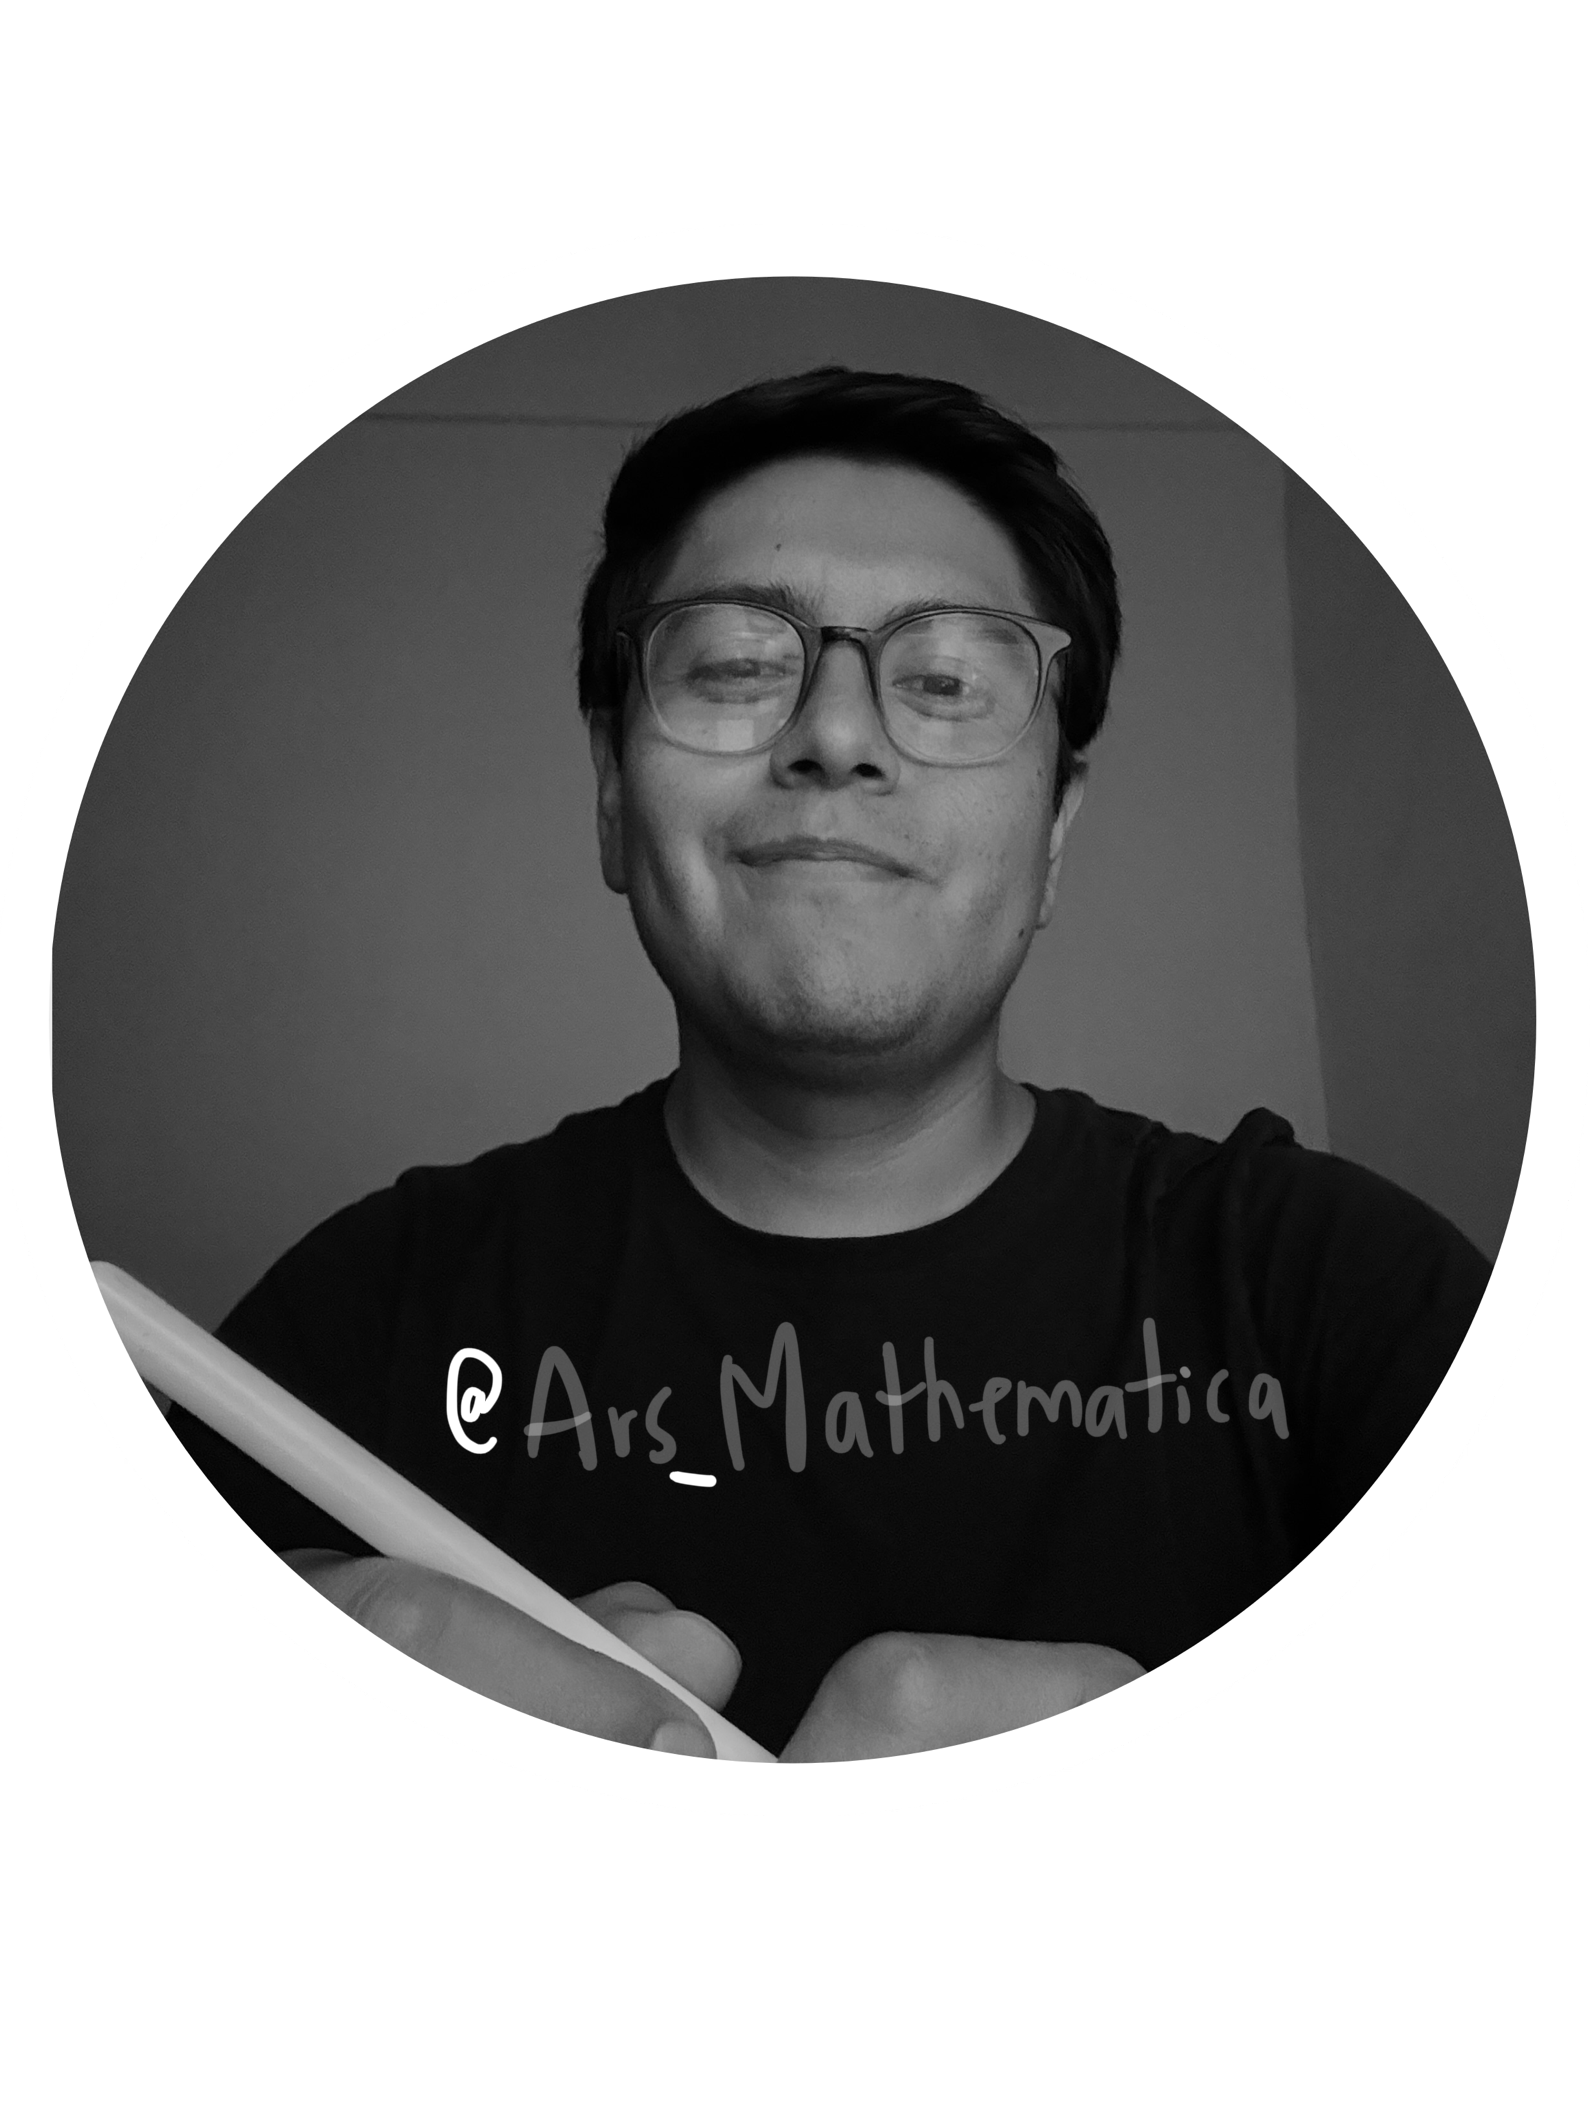
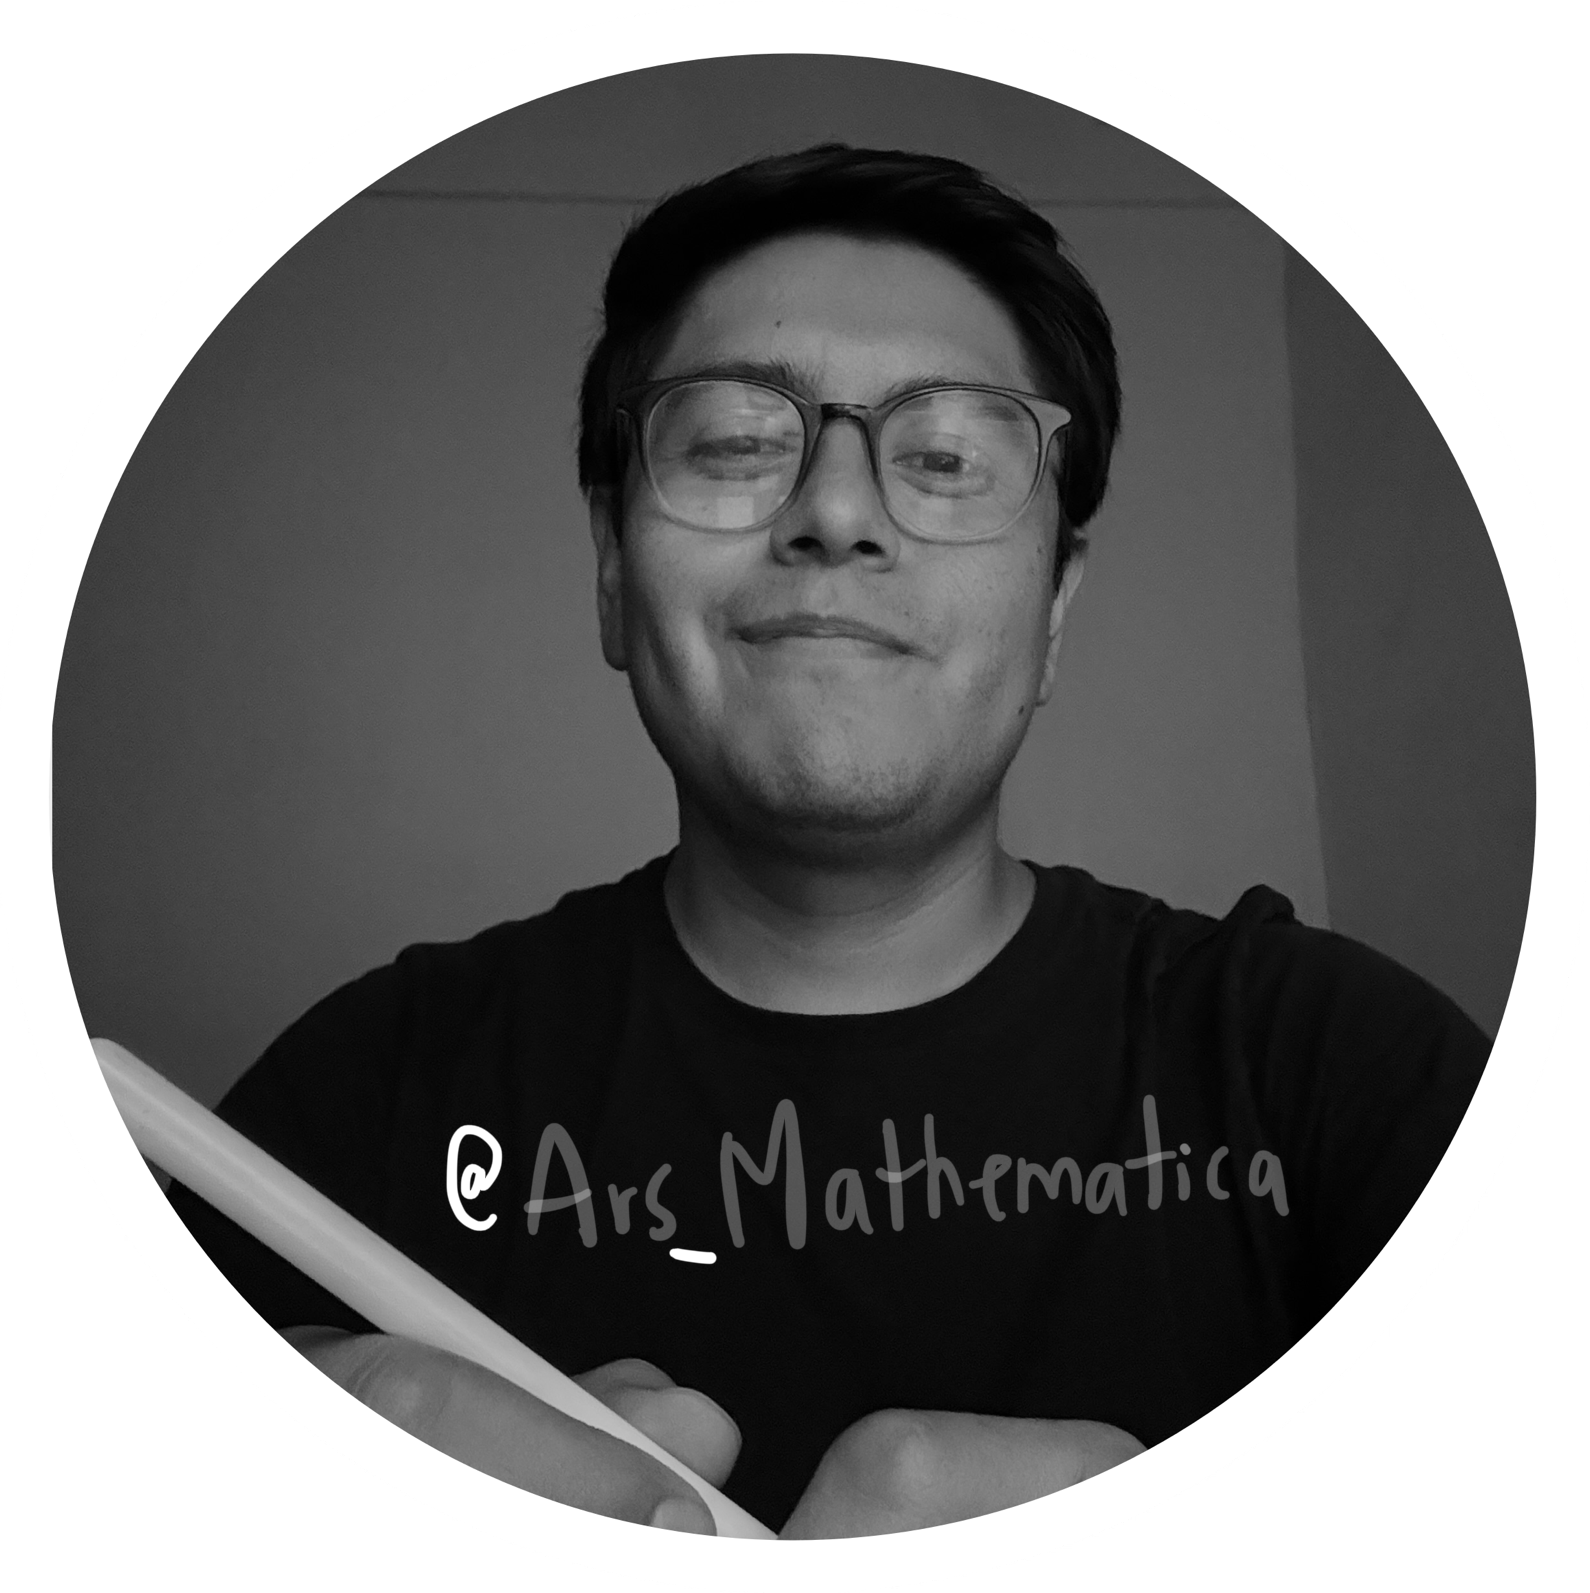
Edit profile picture PNG file

diff --git a/src/styles/global.css b/src/styles/global.css
@@ -716,7 +716,7 @@ blockquote {
   border-radius: 50%;
 
   object-fit: cover;
-  object-position: center 45%;
+  object-position: center center;
 
   border: 2px solid var(--border);
 }